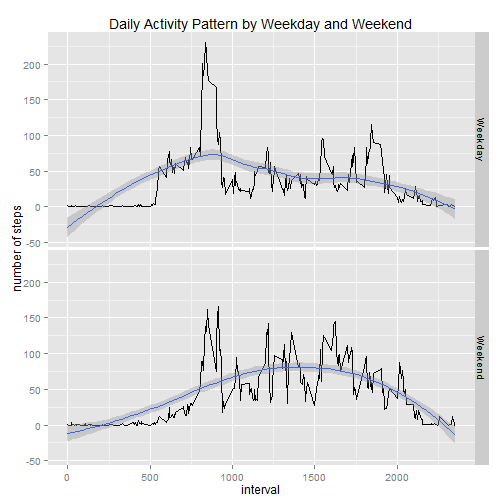
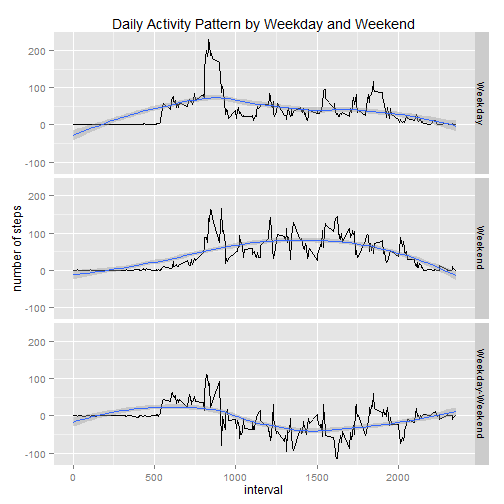
include difference graph

Changed region(s): [[0.0298, 0.0298, 0.9821, 0.9821]]

diff --git a/PA1_template.html b/PA1_template.html
@@ -217,6 +217,12 @@ plot(intervalavg$interval,intervalavg$steps,type=&quot;l&quot;, main=&quot;Daily
 
[1 lines of base64/hex data omitted]
 
+<pre><code class="r">maxSteps&lt;- max(intervalavg$steps)
+intervalMax &lt;- intervalavg[intervalavg$steps==maxSteps,1]
+</code></pre>
+
+<p>The interval with the maximum number of steps throughout the day is 835 with a total steps of 206.1698</p>
+
 <h2>4. Imputing missing values</h2>
 
 <h3>4.1 Total number of missing values in the dataset</h3>
@@ -274,17 +280,22 @@ for (i in 1:nrow(datacomplete)) {
         datacomplete[i,5] = &quot;Weekday&quot;
     }
 }
+intervalwkday&lt;- dcast(melt(datacomplete,id=c(&quot;date&quot;,&quot;interval&quot;,&quot;weekday&quot;), measure.vars=&quot;steps&quot;), interval+weekday~variable,mean)
+intervalwkday$weekday&lt;- as.factor(intervalwkday$weekday)
+
+a&lt;-intervalwkday[intervalwkday$weekday==&quot;Weekday&quot;,]
+a$steps&lt;-intervalwkday[intervalwkday$weekday==&quot;Weekday&quot;,3]-intervalwkday[intervalwkday$weekday==&quot;Weekend&quot;,3]
+a$weekday&lt;-&quot;Weekday-Weekend&quot;
+intervalwkday&lt;-rbind(intervalwkday,a)
 </code></pre>
 
 <p>Then I proceed to make a plot with a loess smooth to review the differences of daily activity pattern between weekday and weekend using ggplot2 library.</p>
 
-<pre><code class="r">intervalwkday&lt;- dcast(melt(datacomplete,id=c(&quot;date&quot;,&quot;interval&quot;,&quot;weekday&quot;), measure.vars=&quot;steps&quot;), interval+weekday~variable,mean)
-intervalwkday$weekday&lt;- as.factor(intervalwkday$weekday)
-library(ggplot2)
+<pre><code class="r">library(ggplot2)
 qplot(interval,steps,data=intervalwkday, geom=&quot;line&quot;,xlab=&quot;interval&quot;,ylab=&quot;number of steps&quot;,main=&quot;Daily Activity Pattern by Weekday and Weekend&quot;)+facet_grid(weekday~.)+geom_smooth(aes(group=1),method=&quot;loess&quot;)
 </code></pre>
 
[2 lines of base64/hex data omitted]
 
 <p>After observing the weekday and weekend daily activity patterns we can see that in average the weekday and weekday are different.  During weekdays there is a big momentum around the 8hour and then the pattern is very small around 50 steps. However, during the weekend it is more consistent with what seems an average of around 80 steps throughout the day. Also it seems to start a bit later at around 9hours rather than at around the 5hours during the weekdays.</p>
 

diff --git a/PA1_template.md b/PA1_template.md
@@ -38,6 +38,13 @@ plot(intervalavg$interval,intervalavg$steps,type="l", main="Daily Activity Patte
 
 ![plot of chunk unnamed-chunk-3](figure/unnamed-chunk-3.png) 
 
+```r
+maxSteps<- max(intervalavg$steps)
+intervalMax <- intervalavg[intervalavg$steps==maxSteps,1]
+```
+The interval with the maximum number of steps throughout the day is 835 with a total steps of 206.1698
+
+
 ## 4. Imputing missing values
 
 ### 4.1 Total number of missing values in the dataset
@@ -95,13 +102,18 @@ for (i in 1:nrow(datacomplete)) {
         datacomplete[i,5] = "Weekday"
     }
 }
+intervalwkday<- dcast(melt(datacomplete,id=c("date","interval","weekday"), measure.vars="steps"), interval+weekday~variable,mean)
+intervalwkday$weekday<- as.factor(intervalwkday$weekday)
+
+a<-intervalwkday[intervalwkday$weekday=="Weekday",]
+a$steps<-intervalwkday[intervalwkday$weekday=="Weekday",3]-intervalwkday[intervalwkday$weekday=="Weekend",3]
+a$weekday<-"Weekday-Weekend"
+intervalwkday<-rbind(intervalwkday,a)
 ```
 
 Then I proceed to make a plot with a loess smooth to review the differences of daily activity pattern between weekday and weekend using ggplot2 library.
 
 ```r
-intervalwkday<- dcast(melt(datacomplete,id=c("date","interval","weekday"), measure.vars="steps"), interval+weekday~variable,mean)
-intervalwkday$weekday<- as.factor(intervalwkday$weekday)
 library(ggplot2)
 qplot(interval,steps,data=intervalwkday, geom="line",xlab="interval",ylab="number of steps",main="Daily Activity Pattern by Weekday and Weekend")+facet_grid(weekday~.)+geom_smooth(aes(group=1),method="loess")
 ```
